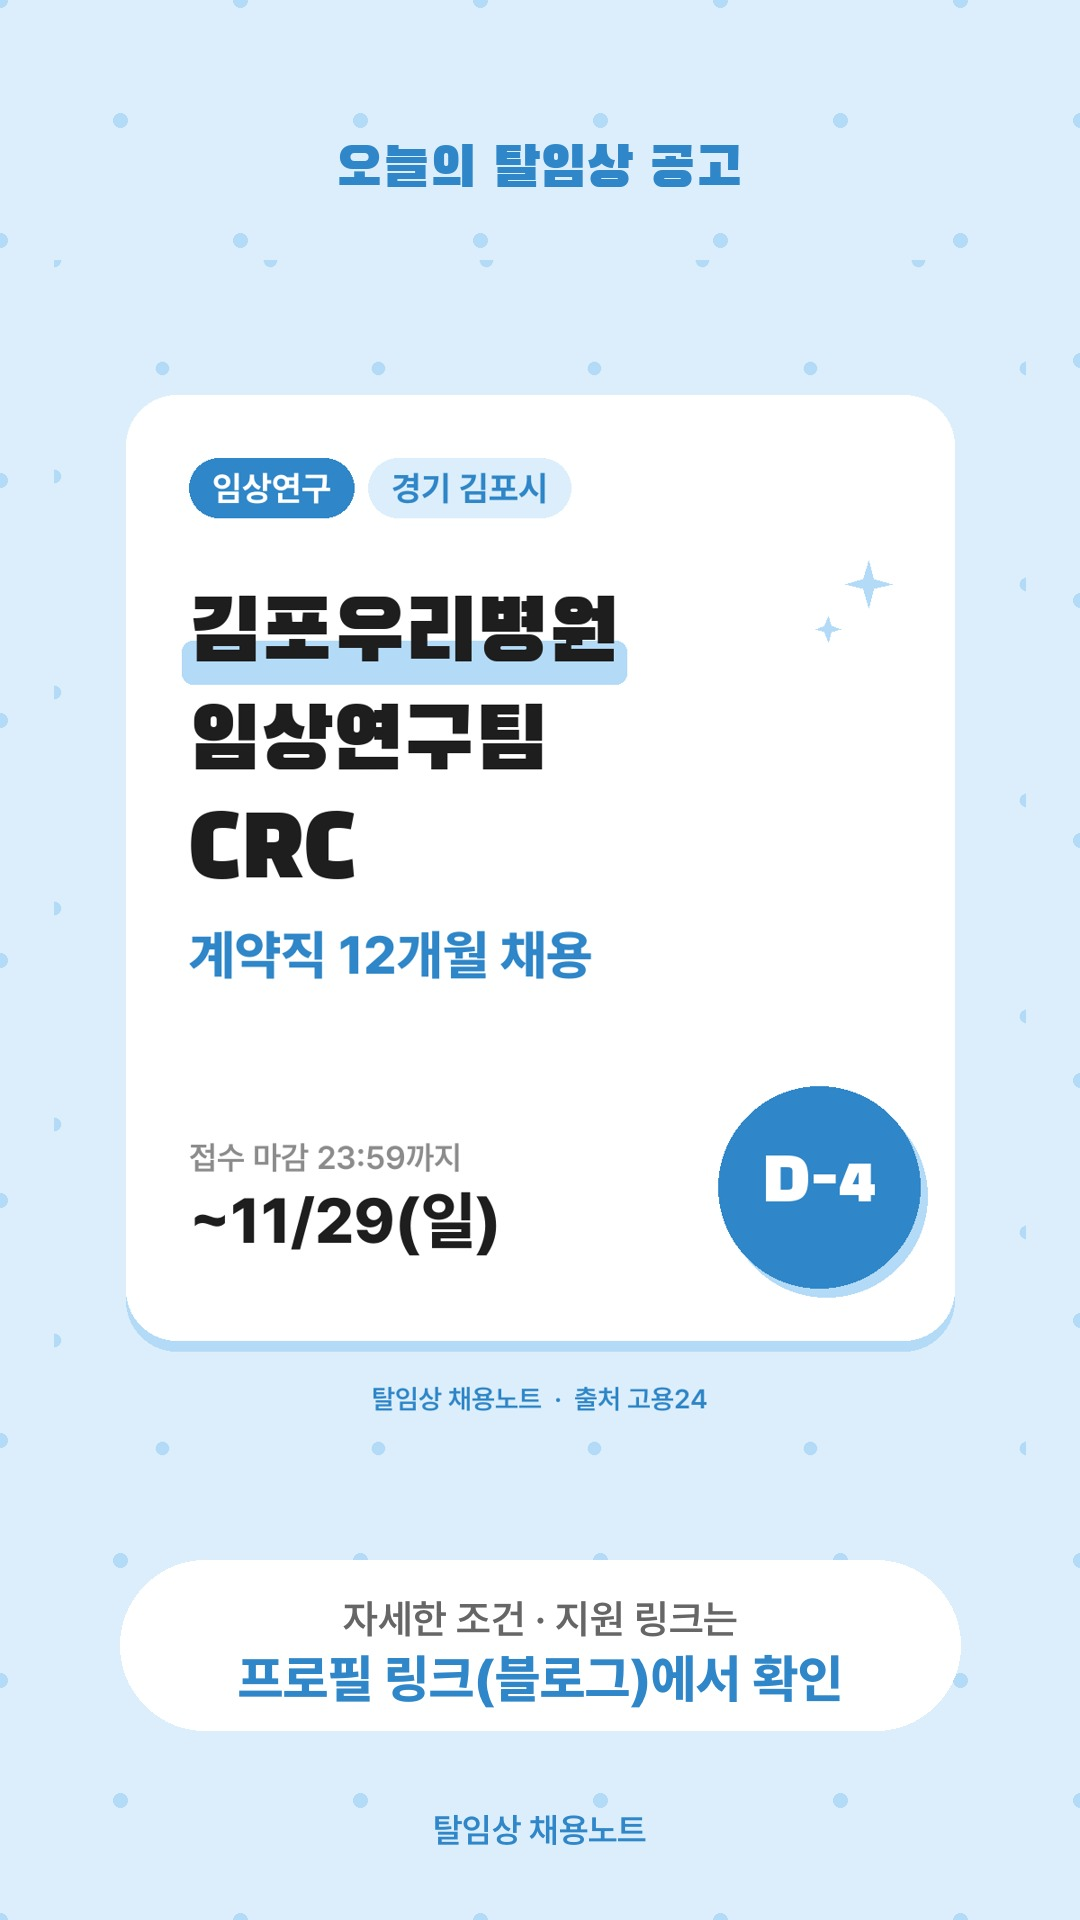
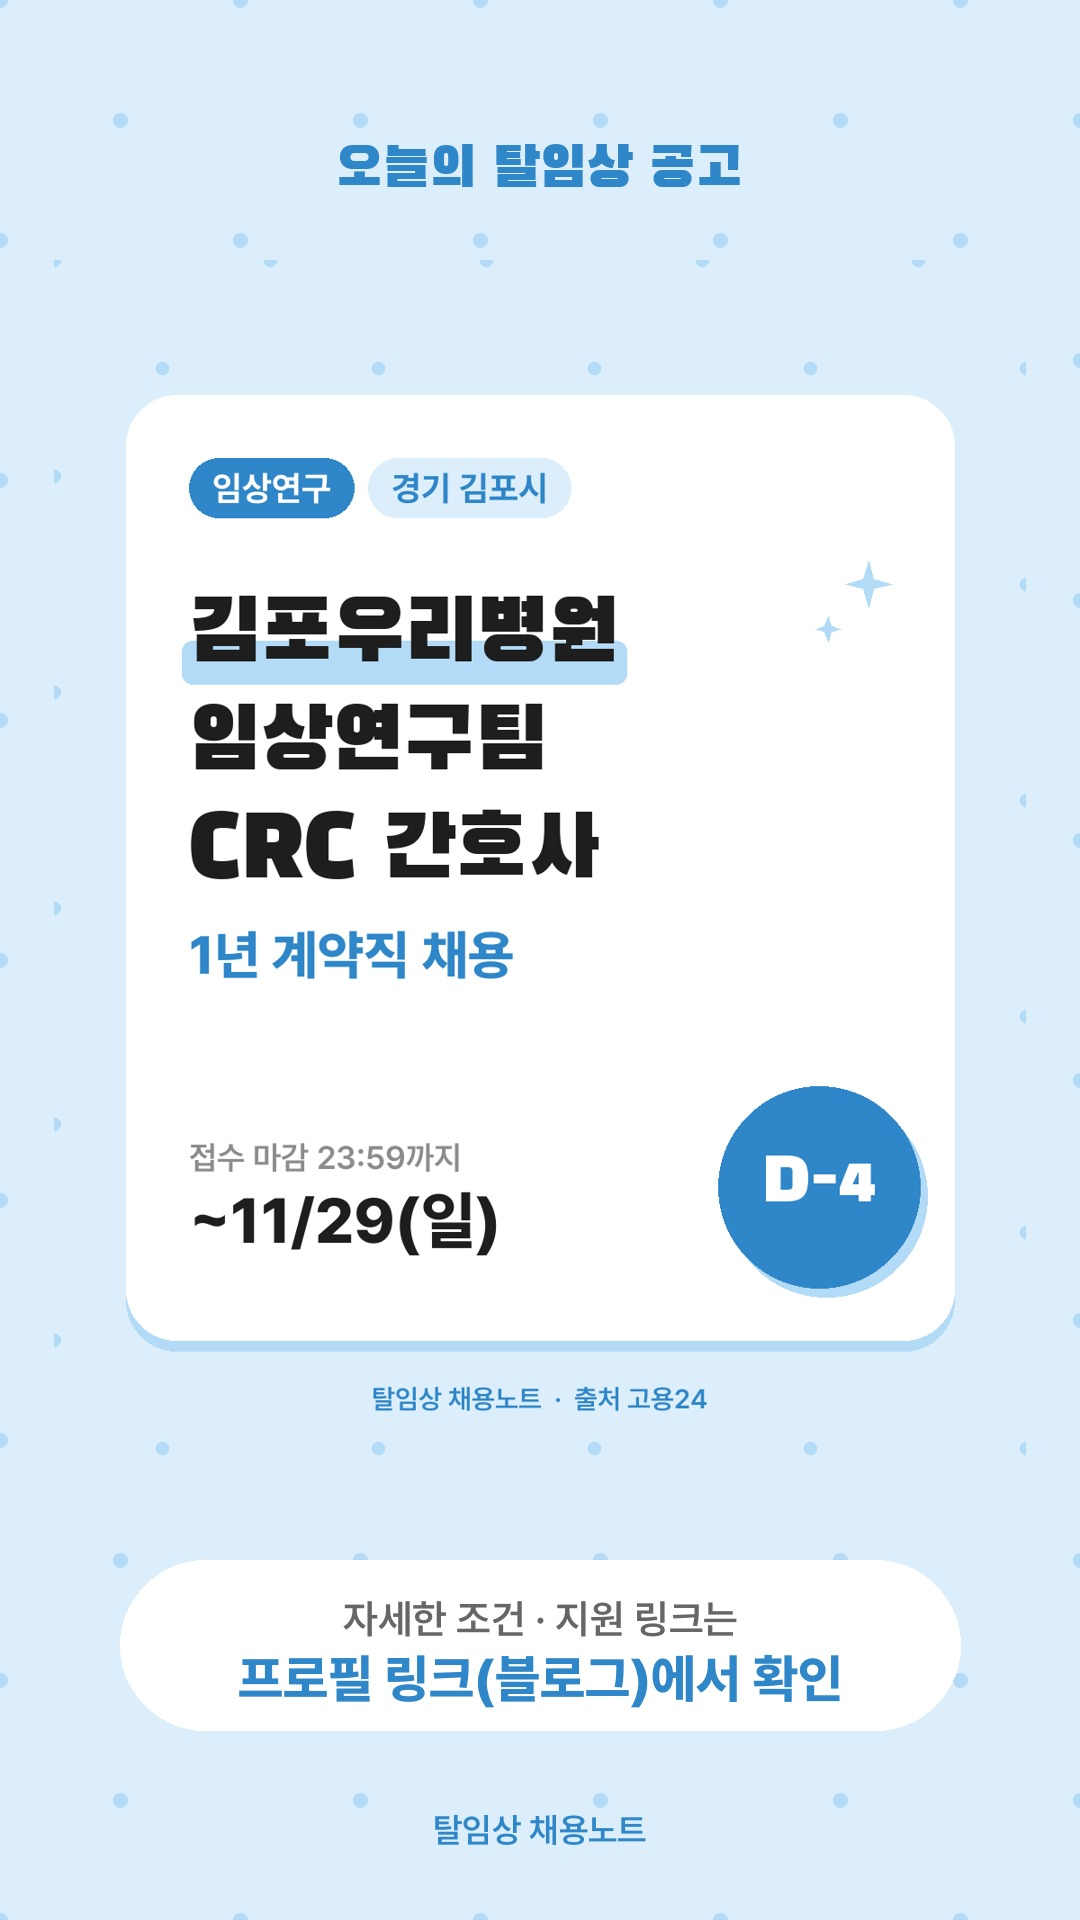
11/25 김포우리병원 CRC 공고 이미지 원문으로 정정(근무시간·3교대 가능성·자격·복리후생)
Claude-Session: https://claude.ai/code/session_015ozFBvjxcWAyqLYfTbBGCZ

Changed region(s): [[0.1833, 0.4062, 0.55, 0.5312]]

diff --git a/docs/2026-11-25/index.html b/docs/2026-11-25/index.html
@@ -86,30 +86,32 @@ a{color:var(--accent)}ul.days{padding-left:1.2em}
 <div class="row" style="margin-top:10px"><pre id="tg2" style="flex:1;margin:0">#IPARK현대산업개발채용 #간호사채용 #탈임상 #탈임상간호사 #HDC현대산업개발채용 #본사보건관리자 #보건관리자 #서울보건관리자 #육아휴직대체 #간호사이직</pre>
 <button onclick="copyText('tg2',this)">태그 복사</button></div>
 <div class="row" style="margin-top:10px;align-items:flex-start"><a href="thumb-02.png" download><img src="thumb-02.png" alt="썸네일 2" style="width:160px;border-radius:8px;border:1px solid var(--line)"></a>
-<span class="muted">썸네일: 이미지를 눌러 저장 후 글 맨 위에 넣으세요</span></div></div><div class="box"><div class="row"><b>글 3. 김포우리병원 · CRC</b>
+<span class="muted">썸네일: 이미지를 눌러 저장 후 글 맨 위에 넣으세요</span></div></div><div class="box"><div class="row"><b>글 3. 김포우리병원 · CRC 간호사</b>
 <span class="muted">카테고리: 탈임상 채용공고 &gt; 임상연구</span></div>
-<div class="row" style="margin-top:8px"><pre id="pt3" style="flex:1;margin:0">[김포] 김포우리병원 임상연구팀 CRC(간호사 지원 가능) 계약직 채용 (~11/29)</pre>
+<div class="row" style="margin-top:8px"><pre id="pt3" style="flex:1;margin:0">[김포] 김포우리병원 임상연구팀 CRC 간호사 계약직 채용 (~11/29)</pre>
 <button onclick="copyText('pt3',this)">제목 복사</button></div>
 <details open><summary class="muted" style="margin:10px 0;cursor:pointer">본문 미리보기 (접기)</summary>
-<div id="pb3" class="post"><p>경력 제한 없이 병원 임상연구팀 CRC로 연구직을 시작할 수 있는 공고입니다. 12개월 계약 후 정규직 전환을 검토하는 조건입니다.</p><p>&nbsp;</p>
+<div id="pb3" class="post"><p>간호사 면허만 있으면 지원할 수 있는 병원 임상연구팀 CRC 자리입니다. 1년 계약 후 정규직 전환을 검토하고, 평일 주간 근무가 중심입니다. 다만 연구 일정에 따라 3교대·주말근무가 있을 수 있다고 명시돼 있습니다.</p><p>&nbsp;</p>
 <h2>📌 채용 개요</h2>
 <table border="1" cellpadding="8" style="border-collapse:collapse;width:100%">
 <tr><td style="width:30%;background:#f5f5f5"><b>기관</b></td><td>김포우리병원</td></tr>
-<tr><td style="width:30%;background:#f5f5f5"><b>부서 · 직무</b></td><td>임상연구팀 CRC</td></tr>
-<tr><td style="width:30%;background:#f5f5f5"><b>고용 형태</b></td><td>계약직 12개월 (정규직 전환 검토) (12개월 (정규직 전환 검토))</td></tr>
+<tr><td style="width:30%;background:#f5f5f5"><b>부서 · 직무</b></td><td>임상연구팀 CRC 간호사</td></tr>
+<tr><td style="width:30%;background:#f5f5f5"><b>채용 인원</b></td><td>1명</td></tr>
+<tr><td style="width:30%;background:#f5f5f5"><b>고용 형태</b></td><td>1년 계약직 (추후 정규직 전환 검토) (1년 (추후 정규직 전환 검토))</td></tr>
 <tr><td style="width:30%;background:#f5f5f5"><b>근무지</b></td><td>경기 김포시</td></tr>
-<tr><td style="width:30%;background:#f5f5f5"><b>급여</b></td><td>회사내규</td></tr>
-<tr><td style="width:30%;background:#f5f5f5"><b>근무 시간</b></td><td>주6일 (토요근무)</td></tr>
+<tr><td style="width:30%;background:#f5f5f5"><b>급여</b></td><td>공고문 확인 필요 (기관 내규)</td></tr>
+<tr><td style="width:30%;background:#f5f5f5"><b>근무 시간</b></td><td>월~금 08:30~17:30 (평일 주간 근무 중심이지만, 임상연구 시 3교대·주말근무 있을 수 있음)</td></tr>
 <tr><td style="width:30%;background:#f5f5f5"><b>접수 기간</b></td><td>11월 24일 ~ 11월 29일 23:59 (D-4)</td></tr>
 </table><p>&nbsp;</p>
-<h2>💰 급여</h2><ul><li>회사내규</li></ul><p>&nbsp;</p>
-<h2>🎁 복리후생</h2><ul><li>구내식당</li><li>장기근속수당</li><li>육아휴직</li><li>연차·월차·반차</li><li>경조·포상휴가</li><li>국민연금 등 4대보험</li></ul><p>&nbsp;</p>
-<h2>✅ 지원 자격</h2><ul><li>간호사 (모집 부문: CRC 간호사)</li><li>경력무관</li><li>학력무관</li></ul><p>&nbsp;</p>
-<h2>📎 직무내용</h2><ul><li>임상연구팀 CRC 업무</li></ul><p>&nbsp;</p>
-<h2>🧭 전형 절차</h2><ol><li>자사 홈페이지 지원 (이력서·자기소개서, 병원 입사지원서 양식)</li></ol><p>&nbsp;</p>
-<h2>💡 한줄 TIP</h2><p>CRC로 첫 이직을 준비하는 신규~저연차에게 적합. 정규직 전환 검토형, 11.29 마감.</p><p>&nbsp;</p>
+<h2>💰 급여</h2><ul><li>병원 내규에 따름</li></ul><p>&nbsp;</p>
+<h2>🎁 복리후생</h2><ul><li>직원 진료비 감면 (진료비 외래/입원, 본인·배우자·자녀·부모 등)</li><li>직원 검진 및 예방접종 (전 직원 1년에 1회 건강검진, 매년 독감 예방접종 무료)</li><li>&#x27;우리&#x27;만의 리워드 (검진·진료·휴게·행사 혜택)</li><li>경조휴가 및 경조사비 지급</li><li>직원자녀 대상 위탁보육료 및 학자금 지급</li><li>직원 생일 복지포인트</li><li>장기 근속 포상 (10년·20년 근속)</li><li>모범직원 해외연수</li><li>명절수당 (설·추석)</li><li>부서회식비 연 1~2회 지원</li><li>직원식당 식사 월 25식 내외 무료제공</li><li>직원 직무 교육비 지원</li><li>야간근무자 야식비 지급</li><li>동호회 활동비 지원</li><li>기숙사 지원 (3교대부서·야간근무부서 우선)</li><li>대명리조트 회원권 지원, 스포츠시설 할인 지원</li></ul><p>&nbsp;</p>
+<h2>✅ 지원 자격</h2><ul><li>[필수] 간호사 면허증 (IV 가능자)</li></ul><p>&nbsp;</p>
+<h2>⭐ 우대 사항</h2><ul><li>CRC, CRA 등 임상시험 관련 경력</li><li>취업보호 대상자(보훈대상자 및 장애인) 관계법에 의거 우대</li></ul><p>&nbsp;</p>
+<h2>📎 직무내용</h2><ul><li>임상시험 연구 담당</li></ul><p>&nbsp;</p>
+<h2>💡 한줄 TIP</h2><p>CRC 경력 없이 연구직을 시작하려는 간호사에게 적합. 연구 일정에 따라 3교대·주말근무 가능성 확인.</p><p>&nbsp;</p>
 <h2>🔗 지원하기</h2><ul>
 <li><a href="https://job.incruit.com/jobdb_info/jobpost.asp?job=2611240001984&amp;pco=583">기관 채용 홈페이지에서 바로 지원</a></li>
+<li>접수 방법: 김포우리병원 채용홈페이지 (자사 이력서 양식, 중복 지원·지원서 수정 불가, 증빙서류는 합격자만)</li>
 </ul><p>※ 공고 내용을 요약한 글입니다. 지원 전 원문 공고문을 꼭 확인하세요.</p><p>&nbsp;</p>
 <p>📢 <b>새 공고는 매일 아침 인스타그램 스토리에 먼저 올라옵니다.</b><br>마감 하루 전 알림도 스토리로 보내드립니다.<br>👉 인스타그램 <a href="https://www.instagram.com/live_in_fact/">@live_in_fact</a> 팔로우하고 놓치지 마세요</p><p>&nbsp;</p>
 <p>#김포우리병원채용 #간호사채용 #탈임상 #탈임상간호사 #CRC #연구간호사 #김포간호사 #임상연구팀 #간호사이직</p></div></details>
@@ -190,7 +192,7 @@ a{color:var(--accent)}ul.days{padding-left:1.2em}
 <table border="1" cellpadding="6" style="border-collapse:collapse;width:100%;table-layout:fixed">
 <tr style="background:#f5f5f5"><td width="11%" style="width:11%;text-align:center;white-space:nowrap"><b>마감</b></td><td width="26%" style="width:26%;text-align:center;white-space:nowrap"><b>기관</b></td><td width="28%" style="width:28%;text-align:center;white-space:nowrap"><b>직무</b></td><td width="17%" style="width:17%;text-align:center;white-space:nowrap"><b>근무지</b></td><td width="10%" style="width:10%;text-align:center;white-space:nowrap"><b>고용</b></td><td width="8%" style="width:8%;text-align:center;white-space:nowrap"><b>글</b></td></tr>
 <tr><td style="text-align:center;white-space:nowrap">11/25<br><b><span style="color:#e03131">D-DAY</span></b></td><td>🆕 <a href="https://jobapplication.schmc.ac.kr/recruit/biz/job/recruiteList">순천향대학교 서울병원</a></td><td>임상시험지원팀 임상시험 간호사</td><td>서울 용산구</td><td style="text-align:center;white-space:nowrap"><span style="color:#868e96">비정규</span></td><td style="text-align:center;white-space:nowrap"><a href="https://blog.naver.com/PostSearchList.naver?blogId=live_in_fact&amp;orderType=sim&amp;searchText=%EC%88%9C%EC%B2%9C%ED%96%A5%EB%8C%80%ED%95%99%EA%B5%90%20%EC%84%9C%EC%9A%B8%EB%B3%91%EC%9B%90">📝</a></td></tr>
-<tr><td style="text-align:center;white-space:nowrap">11/29<br>D-4</td><td>🆕 <a href="https://job.incruit.com/jobdb_info/jobpost.asp?job=2611240001984&amp;pco=583">김포우리병원</a></td><td>임상연구팀 CRC</td><td>경기 김포시</td><td style="text-align:center;white-space:nowrap"><span style="color:#868e96">비정규</span></td><td style="text-align:center;white-space:nowrap"><a href="https://blog.naver.com/PostSearchList.naver?blogId=live_in_fact&amp;orderType=sim&amp;searchText=%EA%B9%80%ED%8F%AC%EC%9A%B0%EB%A6%AC%EB%B3%91%EC%9B%90">📝</a></td></tr>
+<tr><td style="text-align:center;white-space:nowrap">11/29<br>D-4</td><td>🆕 <a href="https://job.incruit.com/jobdb_info/jobpost.asp?job=2611240001984&amp;pco=583">김포우리병원</a></td><td>임상연구팀 CRC 간호사</td><td>경기 김포시</td><td style="text-align:center;white-space:nowrap"><span style="color:#868e96">비정규</span></td><td style="text-align:center;white-space:nowrap"><a href="https://blog.naver.com/PostSearchList.naver?blogId=live_in_fact&amp;orderType=sim&amp;searchText=%EA%B9%80%ED%8F%AC%EC%9A%B0%EB%A6%AC%EB%B3%91%EC%9B%90">📝</a></td></tr>
 <tr><td style="text-align:center;white-space:nowrap">12/2<br>D-7</td><td>🆕 <a href="https://www.work24.go.kr/wk/a/b/1500/empDetailAuthView.do?wantedAuthNo=55610935&amp;infoTypeCd=CSI&amp;infoTypeGroup=tb_workinfogubun">엠바이오</a></td><td>CRA</td><td>서울 서초구</td><td style="text-align:center;white-space:nowrap"><b><span style="color:#1971c2">정규</span></b></td><td style="text-align:center;white-space:nowrap"><a href="https://blog.naver.com/PostSearchList.naver?blogId=live_in_fact&amp;orderType=sim&amp;searchText=%EC%97%A0%EB%B0%94%EC%9D%B4%EC%98%A4">📝</a></td></tr>
 <tr><td style="text-align:center;white-space:nowrap">12/3<br>D-8</td><td><a href="https://job.alio.go.kr/recruitview.do?idx=307212">부산대학교병원</a></td><td>권역외상센터 운영지원팀 연구원</td><td>부산</td><td style="text-align:center;white-space:nowrap"><span style="color:#868e96">비정규</span></td><td style="text-align:center;white-space:nowrap"><a href="https://blog.naver.com/PostSearchList.naver?blogId=live_in_fact&amp;orderType=sim&amp;searchText=%EB%B6%80%EC%82%B0%EB%8C%80%ED%95%99%EA%B5%90%EB%B3%91%EC%9B%90">📝</a></td></tr>
 <tr><td style="text-align:center;white-space:nowrap">12/15<br>D-20</td><td>🆕 <a href="http://www.saramin.co.kr/zf_user/recruit/recruit-view?idx=55582657">제이인츠바이오</a></td><td>CRA</td><td>서울 성동구</td><td style="text-align:center;white-space:nowrap"><b><span style="color:#1971c2">정규</span></b></td><td style="text-align:center;white-space:nowrap">-</td></tr>
@@ -282,15 +284,14 @@ a{color:var(--accent)}ul.days{padding-left:1.2em}
 #탈임상 #탈임상간호사 #간호사채용 #간호사이직 #간호사취업 #HDC현대산업개발채용 #본사보건관리자 #보건관리자 #서울보건관리자 #육아휴직대체</pre>
 <button onclick="copyText('ic2',this)">캡션 복사</button></div></div><div class="box"><div style="display:flex;flex-wrap:wrap"><a href="ig-03-1.jpg" download><img src="ig-03-1.jpg" alt="인스타 3-1" style="width:150px;border-radius:8px;border:1px solid var(--line);margin:0 6px 6px 0"></a><a href="ig-03-2.jpg" download><img src="ig-03-2.jpg" alt="인스타 3-2" style="width:150px;border-radius:8px;border:1px solid var(--line);margin:0 6px 6px 0"></a><a href="ig-03-3.jpg" download><img src="ig-03-3.jpg" alt="인스타 3-3" style="width:150px;border-radius:8px;border:1px solid var(--line);margin:0 6px 6px 0"></a><a href="ig-03-4.jpg" download><img src="ig-03-4.jpg" alt="인스타 3-4" style="width:150px;border-radius:8px;border:1px solid var(--line);margin:0 6px 6px 0"></a></div>
 <div><b>인스타 3. 김포우리병원</b> <span class="muted">(4장 · 순서대로 올리세요)</span>
-<pre id="ic3" style="margin:8px 0">📌 [김포] 김포우리병원 임상연구팀 CRC(간호사 지원 가능) 계약직 채용
+<pre id="ic3" style="margin:8px 0">📌 [김포] 김포우리병원 임상연구팀 CRC 간호사 계약직 채용
 
 📍 근무지: 경기 김포시
 ⏰ 마감: 11/29 23:59까지 (D-4)
-💰 급여: 회사내규
-🕘 근무: 주6일 (토요근무)
-✅ 자격: 간호사 면허 / 경력무관
+🕘 근무: 월~금 08:30~17:30 (평일 주간 근무 중심이지만, 임상연구 시 3교대·주말근무 있을 수 있음)
+✅ 자격: 간호사 면허 (IV 가능) / CRC·CRA 경력 우대
 
-💡 CRC로 첫 이직을 준비하는 신규~저연차에게 적합. 정규직 전환 검토형, 11.29 마감.
+💡 CRC 경력 없이 연구직을 시작하려는 간호사에게 적합. 연구 일정에 따라 3교대·주말근무 가능성 확인.
 
 🔗 우대 사항·전형·지원 링크는 프로필 링크(블로그)에서
 💾 저장해두고 마감 체크
